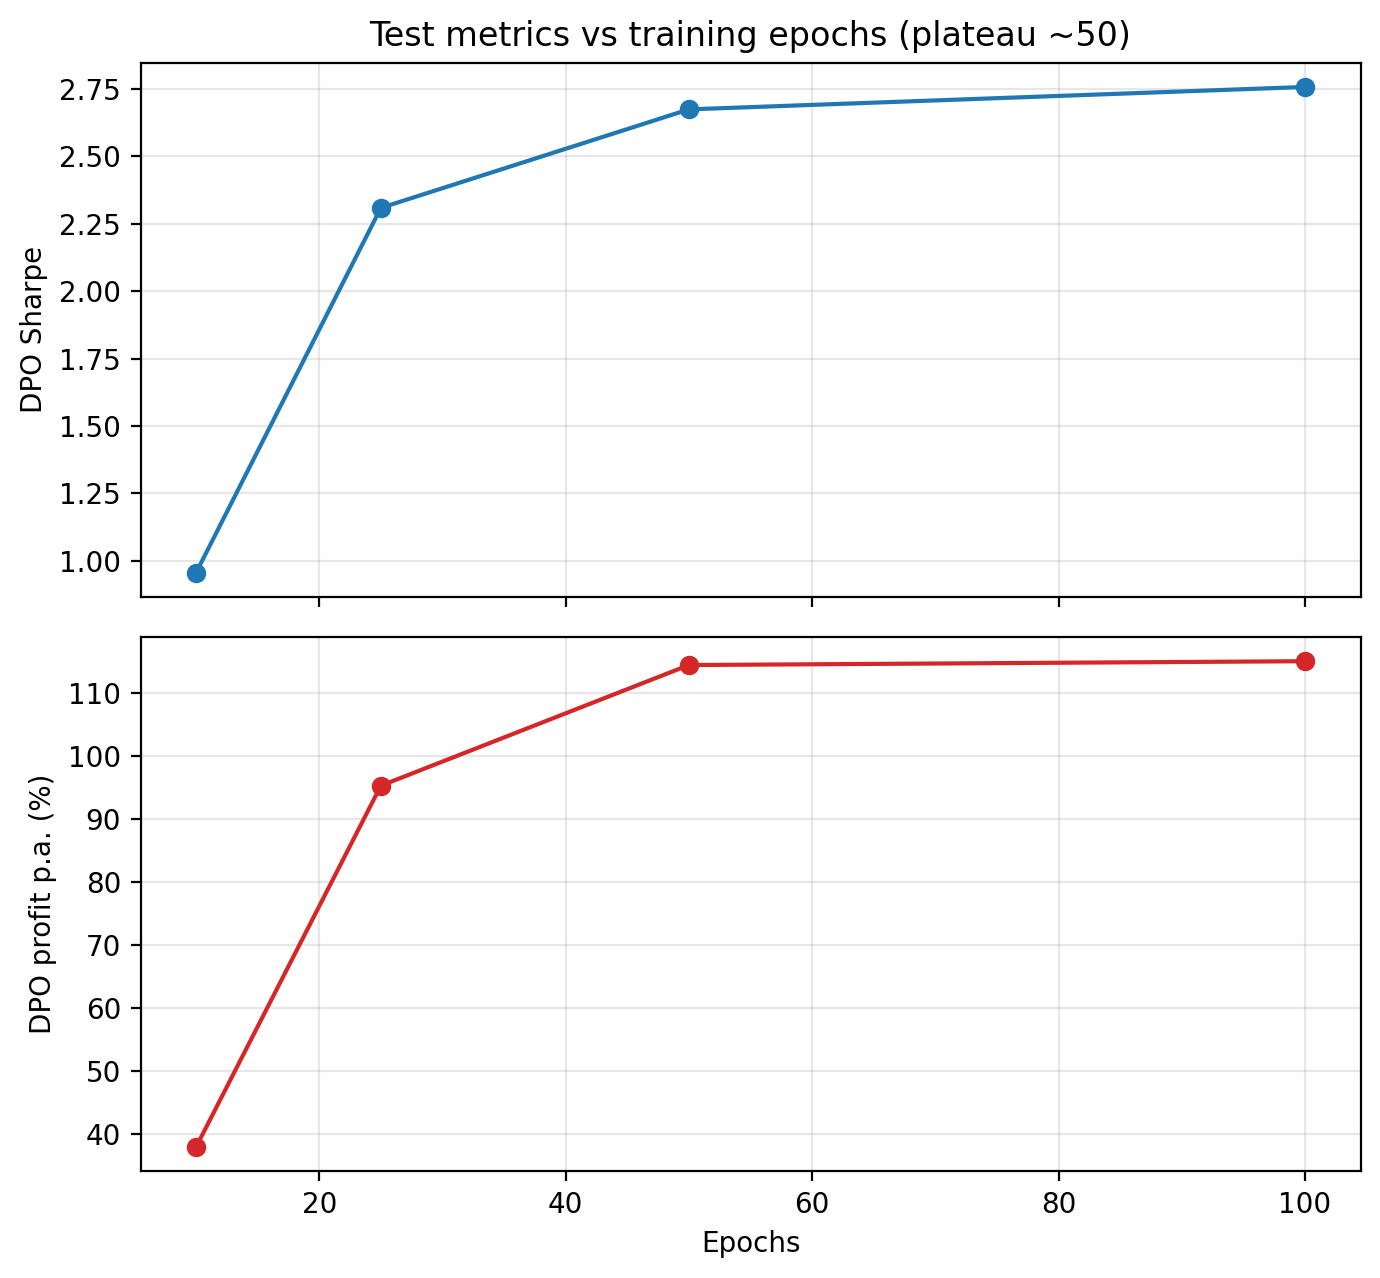
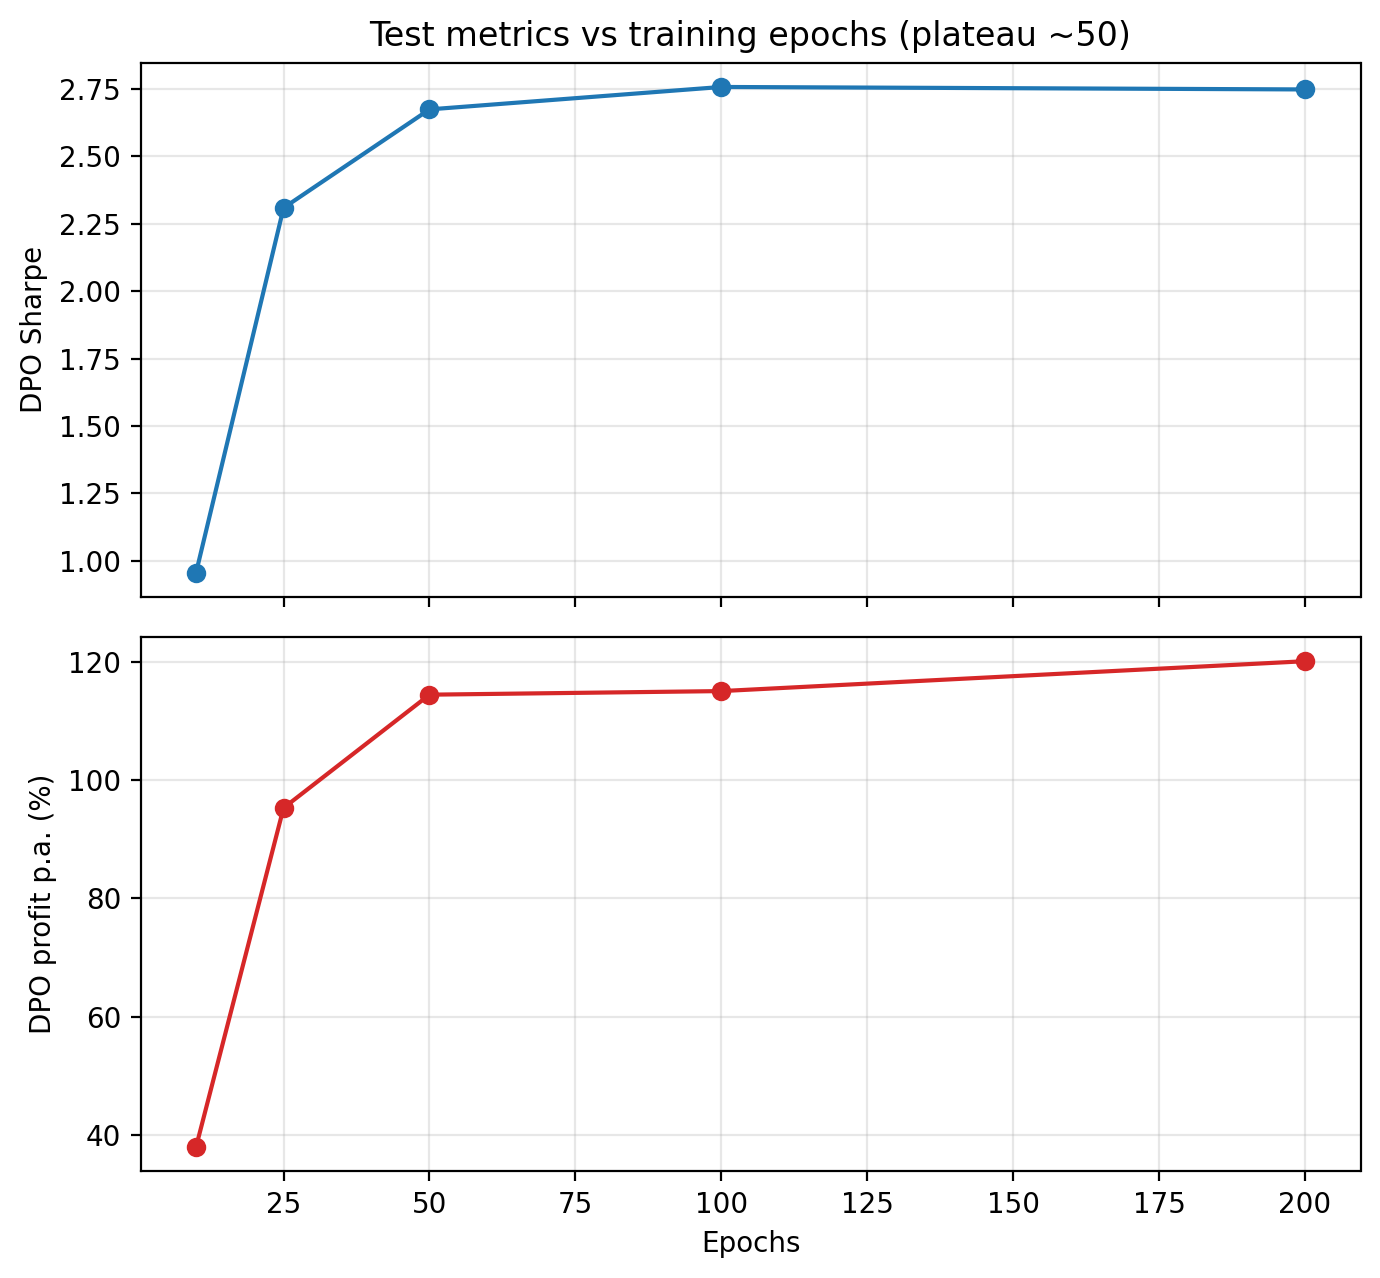
Extend epoch sweep to 200: plateau confirmed (Sharpe 2.747 vs 2.756 at 100)

diff --git a/comparison_logs/parameter_sweep_results.tex b/comparison_logs/parameter_sweep_results.tex
@@ -14,5 +14,6 @@ epochs_100_noES & original_paper_subset & 240 & 4 & 5 & 100 & 100.0000 & False &
 epochs_100_ES & original_paper_subset & 240 & 4 & 5 & 100 & 24.0000 & True & 0.0017 & 10.9846 & 0.8704 & 2.1889 & ok \\
 assets_10_custom & custom_nonpaper_10 & 240 & 10 & 5 & 50 & 50.0000 & False & 0.0020 & 29.2405 & 36.4665 & 3.4976 & ok \\
 batch_4_probe & original_paper_subset & 240 & 4 & 5 & 2 & NaN & NaN & NaN & NaN & NaN & NaN & FAILED: ValueError: Provided tensor has shape torch.Size([320]), but input size is configured to 80 \\
+epochs_200_noES & original_paper_subset & 240 & 4 & 5 & 200 & 200.0000 & False & NaN & 133.0018 & 1.2005 & 2.7473 & ok \\
 \bottomrule
 \end{tabular}
